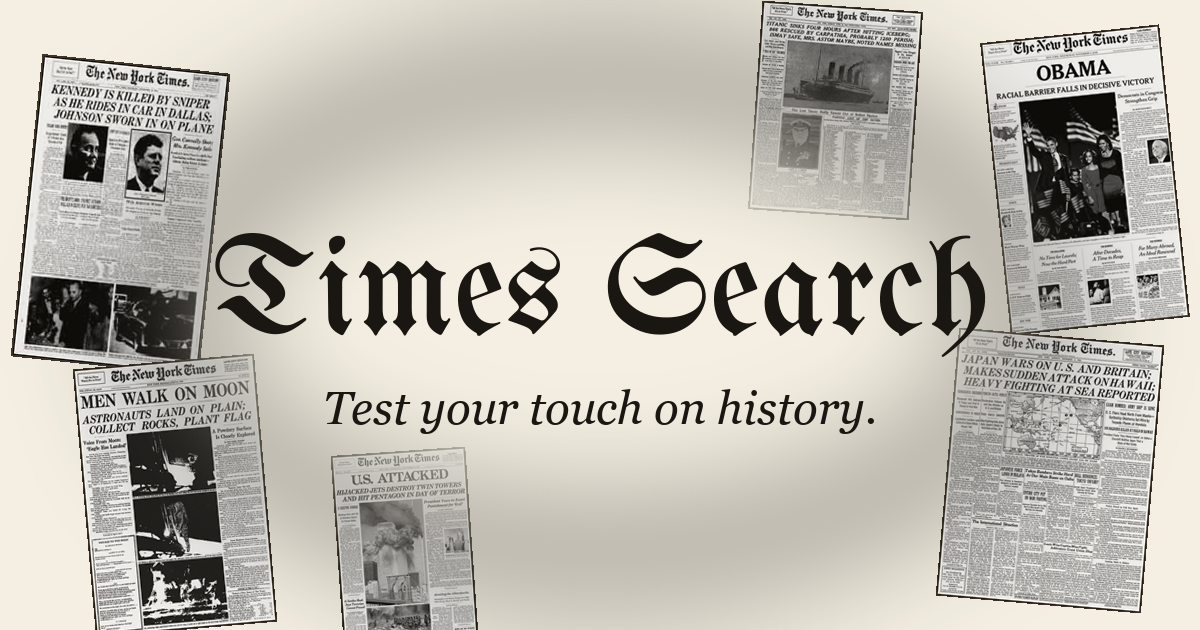
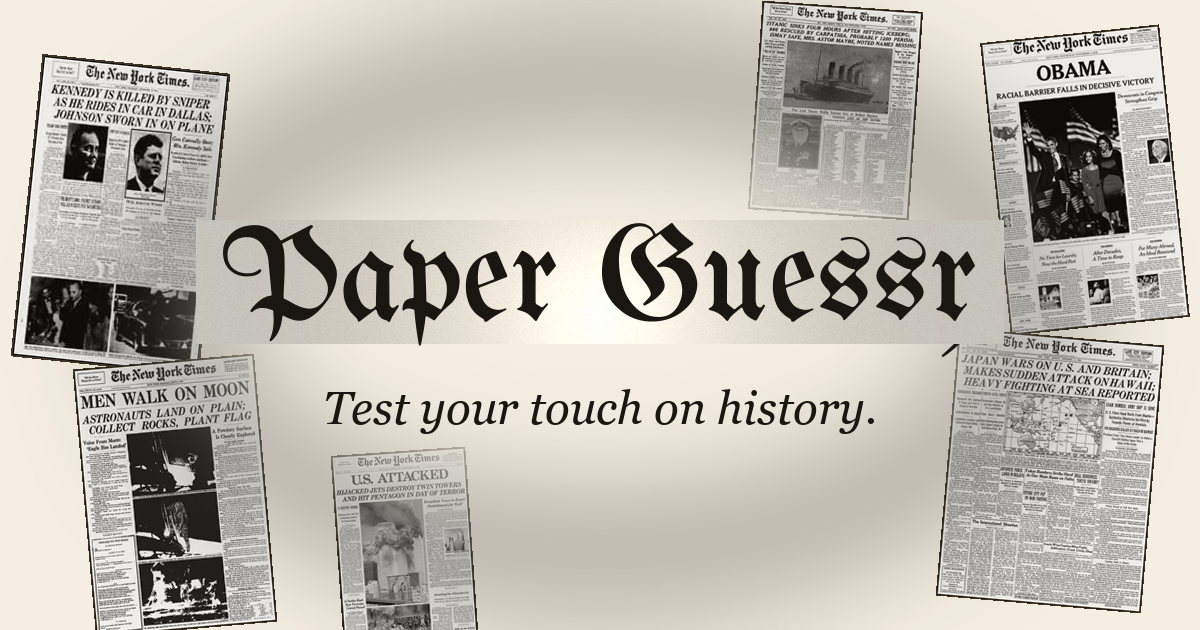
Rebrand Times Search -> Paper Guessr (paperguessr.com)
Same design/look/tagline; only the name and canonical domain change.

- Visible wordmarks: home <h1>, nameplate, poster logo, header brand,
  <title>, OG/Twitter site_name + titles, share-card text + share title,
  ntfy push title.
- Domain: OG/Twitter absolute URLs -> https://paperguessr.com/ (share URL
  itself uses location.origin, so it follows the domain automatically).
- OG image: repainted the wordmark to "Paper Guessr" in place, keeping the
  parchment background, front-page collage and italic tagline.
- localStorage key times-search:v1 -> paper-guessr:v1. NOTE: this resets
  per-device play state (a clean slate for the relaunch); existing players
  see a fresh home rather than their old results.
- Dev/internal: pipeline docstrings, HTTP User-Agents, PRD/SETUP docs,
  daily-Action commit bot name.

favicon.svg (unused; not referenced by index.html) still contains a legacy
"TS" blackletter monogram — left as-is, label updated.

Changed region(s): [[0.1542, 0.3317, 0.8325, 0.573]]

diff --git a/web/index.html b/web/index.html
@@ -3,23 +3,23 @@
 <head>
   <meta charset="UTF-8" />
   <meta name="viewport" content="width=device-width, initial-scale=1.0" />
-  <title>Times Search</title>
+  <title>Paper Guessr</title>
   <meta name="description" content="Test your touch on history. Date four real New York Times front pages and guess the month and year they ran." />
 
   <!-- Link preview (Open Graph + Twitter). Absolute URLs required by scrapers.
-       Update the domain here if/when the custom domain goes live. -->
+       Canonical domain is paperguessr.com (add it in the Vercel project). -->
   <meta property="og:type" content="website" />
-  <meta property="og:site_name" content="Times Search" />
-  <meta property="og:url" content="https://times-search.vercel.app/" />
-  <meta property="og:title" content="Times Search — test your touch on history" />
+  <meta property="og:site_name" content="Paper Guessr" />
+  <meta property="og:url" content="https://paperguessr.com/" />
+  <meta property="og:title" content="Paper Guessr — test your touch on history" />
   <meta property="og:description" content="Date four real New York Times front pages and guess when they ran. A daily history game." />
-  <meta property="og:image" content="https://times-search.vercel.app/og.png" />
+  <meta property="og:image" content="https://paperguessr.com/og.png" />
   <meta property="og:image:width" content="1200" />
   <meta property="og:image:height" content="630" />
   <meta name="twitter:card" content="summary_large_image" />
-  <meta name="twitter:title" content="Times Search — test your touch on history" />
+  <meta name="twitter:title" content="Paper Guessr — test your touch on history" />
   <meta name="twitter:description" content="Date four real New York Times front pages and guess when they ran." />
-  <meta name="twitter:image" content="https://times-search.vercel.app/og.png" />
+  <meta name="twitter:image" content="https://paperguessr.com/og.png" />
   <meta name="theme-color" content="#f4efe2" />
 
   <link rel="icon" type="image/png" sizes="32x32" href="icon-32.png" />
@@ -40,8 +40,8 @@
 <body>
   <header class="masthead">
     <div class="masthead-inner">
-      <a class="brand" href="./" aria-label="Times Search — home">
-        <img src="icon-512.png" alt="Times Search" />
+      <a class="brand" href="./" aria-label="Paper Guessr — home">
+        <img src="icon-512.png" alt="Paper Guessr" />
       </a>
       <div class="scoreboard" id="scoreboard" hidden>
         <span class="round-pill" id="round-pill"></span>

diff --git a/web/app.js b/web/app.js
@@ -1,4 +1,4 @@
-// Times Search — game controller. Plain JS, no framework.
+// Paper Guessr — game controller. Plain JS, no framework.
 (function () {
   "use strict";
 
@@ -26,7 +26,7 @@
   // One game per day, no accounts: persist progress in localStorage keyed by
   // the puzzle date (Wordle-style). Per-device, clearable — fine for MVP.
   // Key by the actually-loaded puzzle date (may differ from DATE if we fell back).
-  const storageKey = () => `times-search:v1:${state.puzzle ? state.puzzle.date : DATE}`;
+  const storageKey = () => `paper-guessr:v1:${state.puzzle ? state.puzzle.date : DATE}`;
   function saveProgress() {
     try {
       localStorage.setItem(storageKey(), JSON.stringify({
@@ -195,11 +195,11 @@
       <section class="screen home poster">
         <div class="fronts" aria-hidden="true">${fronts}</div>
         <div class="poster-topbar">
-          <a class="poster-logo" href="./" aria-label="Times Search"><img src="icon-512.png" alt="" /></a>
+          <a class="poster-logo" href="./" aria-label="Paper Guessr"><img src="icon-512.png" alt="" /></a>
           <button class="how-to-link" id="howto">How to play</button>
         </div>
         <div class="poster-hero">
-          <h1 class="home-title">Times Search</h1>
+          <h1 class="home-title">Paper Guessr</h1>
           <button id="play" class="primary">${cta.label}</button>
         </div>
       </section>`;
@@ -228,7 +228,7 @@
 
     const paper = `
       <div class="paper-masthead standalone">
-        <span class="paper-name">Times Search</span>
+        <span class="paper-name">Paper Guessr</span>
         <div class="paper-dateline">
           <span class="redacted">██████ ██, ████</span>
           <span class="redacted">No. ██,███</span>
@@ -439,7 +439,7 @@
 
   function shareText() {
     const squares = state.results.map((r) => Scoring.shareSquare(r.err)).join("");
-    return `Times Search — ${state.puzzle.date}\n${squares}  ` +
+    return `Paper Guessr — ${state.puzzle.date}\n${squares}  ` +
       `${state.total.toLocaleString()}/${Scoring.maxTotal.toLocaleString()}`;
   }
 
@@ -451,7 +451,7 @@
         // Pass the URL as part of `text` rather than as a separate `url` field:
         // macOS Safari's share sheet (Mail, Messages, Notes) drops `text` and
         // shows only the URL when both fields are given, unlike iOS Safari.
-        await navigator.share({ title: "Times Search", text: fullText });
+        await navigator.share({ title: "Paper Guessr", text: fullText });
         return;
       }
       await navigator.clipboard.writeText(fullText);

diff --git a/api/score.js b/api/score.js
@@ -88,7 +88,7 @@ async function notify(score, count) {
   try {
     await fetch(`https://ntfy.sh/${encodeURIComponent(topic)}`, {
       method: "POST",
-      headers: { Title: "Times Search", Tags: "newspaper" },
+      headers: { Title: "Paper Guessr", Tags: "newspaper" },
       body: `Someone finished today's puzzle — ${score.toLocaleString()}/${MAX}. ` +
             `That makes ${count} completed so far today.`,
     });

diff --git a/web/scoring.js b/web/scoring.js
@@ -1,4 +1,4 @@
-// Times Search — scoring (portable core; no DOM, reusable by a native client).
+// Paper Guessr — scoring (portable core; no DOM, reusable by a native client).
 // Months-off with decaying points. See PRD section 5.
 (function (global) {
   "use strict";

diff --git a/pipeline/__init__.py b/pipeline/__init__.py
@@ -1,1 +1,1 @@
-"""Times Search puzzle-generation pipeline."""
+"""Paper Guessr puzzle-generation pipeline."""

diff --git a/pipeline/groq_client.py b/pipeline/groq_client.py
@@ -32,7 +32,7 @@ def chat(messages, temperature=0.2, max_tokens=200, json_mode=False, retries=4):
             headers={"Authorization": f"Bearer {key}",
                      "Content-Type": "application/json",
                      # Cloudflare blocks the default Python-urllib UA (error 1010).
-                     "User-Agent": "times-search/0.1"},
+                     "User-Agent": "paper-guessr/0.1"},
         )
         try:
             with urllib.request.urlopen(req, timeout=60) as r:

diff --git a/pipeline/wikimedia.py b/pipeline/wikimedia.py
@@ -18,7 +18,7 @@ _last = [0.0]
 
 WIKI = "https://en.wikipedia.org/w/api.php"
 COMMONS = "https://commons.wikimedia.org/w/api.php"
-UA = "times-search/0.1 (non-commercial educational history game)"
+UA = "paper-guessr/0.1 (non-commercial educational history game)"
 CACHE_PATH = os.path.join(config.CACHE_DIR, "wikimedia.json")
 
 

diff --git a/prototype/rank.py b/prototype/rank.py
@@ -1,5 +1,5 @@
 #!/usr/bin/env python3
-"""Times Search — iconicness ranker prototype.
+"""Paper Guessr — iconicness ranker prototype.
 
 Fetches one month of the NYT Archive API and ranks articles to surface the
 ~4 most "iconic" stories of that month, per PRD section 6.2.

diff --git a/PRD.md b/PRD.md
@@ -1,4 +1,4 @@
-# Times Search — Product Requirements Document
+# Paper Guessr — Product Requirements Document
 
 **Status:** Draft v0.1 (working draft — sections marked `OPEN` are unresolved and meant to be decided together)
 **Last updated:** 2026-06-27
@@ -8,9 +8,9 @@
 
 ## 1. Summary
 
-**Times Search** is a daily web game in the spirit of Wordle. Each day, a player is shown three rounds of historical New York Times front-page stories — four major headlines per round, drawn from a single real month somewhere between 1851 and 2019 — and must guess the **month and year** the stories are from. The closer the guess, the higher the score. After three rounds, the player gets a total score, sees how they ranked against everyone who played that day, and can share a spoiler-free result card.
+**Paper Guessr** is a daily web game in the spirit of Wordle. Each day, a player is shown three rounds of historical New York Times front-page stories — four major headlines per round, drawn from a single real month somewhere between 1851 and 2019 — and must guess the **month and year** the stories are from. The closer the guess, the higher the score. After three rounds, the player gets a total score, sees how they ranked against everyone who played that day, and can share a spoiler-free result card.
 
-The hook: the NYT archive is a 170-year record of "what the world was paying attention to." Times Search turns that into a daily test of historical intuition.
+The hook: the NYT archive is a 170-year record of "what the world was paying attention to." Paper Guessr turns that into a daily test of historical intuition.
 
 ### One-liner
 > Guess the month and year four real NYT headlines are from. Three rounds a day.
@@ -255,7 +255,7 @@ The reveal-screen blurb is **LLM-generated via Groq**, model **`llama-3.3-70b-ve
 - **Puzzle store/CDN:** serves the day's puzzle to clients as small JSON — headlines, abstracts, image URLs, links, the blurb, **and the answers**. *(DECIDED: **client-side answers**, Wordle-style. Cheating only fools yourself; the shared "top XX%" stat is already spam-gameable with no accounts. Revisit if the future iOS app adds accounts/competitive leaderboards. See §10.)*
 - **Score-distribution service:** tiny endpoint storing daily anonymous scores + returning percentile/histogram.
 - **Client:** responsive web app implementing the 4 screens.
-- **Play-state persistence — DECIDED & built (no auth):** the client stores today's progress in **`localStorage`**, keyed by the puzzle date (`times-search:v1:<date>`), Wordle-style. On load: **completed → results**, **in-progress → resume**, **fresh → home**; the home CTA is contextual (Play / Resume / See Your Results) and there is **no replay** once the day is done. *Trade-offs (acceptable for MVP):* it is **per-device + per-browser**, resets on clearing storage / private mode, and is **not tamper-proof** (a user can clear it to replay — only affects their own run and the already-gameable anonymous distribution). **Real cross-device identity + integrity is a later concern, arriving with accounts / the native iOS app.**
+- **Play-state persistence — DECIDED & built (no auth):** the client stores today's progress in **`localStorage`**, keyed by the puzzle date (`paper-guessr:v1:<date>`), Wordle-style. On load: **completed → results**, **in-progress → resume**, **fresh → home**; the home CTA is contextual (Play / Resume / See Your Results) and there is **no replay** once the day is done. *Trade-offs (acceptable for MVP):* it is **per-device + per-browser**, resets on clearing storage / private mode, and is **not tamper-proof** (a user can clear it to replay — only affects their own run and the already-gameable anonymous distribution). **Real cross-device identity + integrity is a later concern, arriving with accounts / the native iOS app.**
 
 *(OPEN — concrete stack TBD: static site + serverless functions is likely enough.)*
 

diff --git a/SETUP.md b/SETUP.md
@@ -1,4 +1,4 @@
-# Times Search — backend setup
+# Paper Guessr — backend setup
 
 The game runs fully static on Vercel. Two optional pieces add live stats and
 notifications. The **code is already in the repo**; these are the one-time
@@ -15,7 +15,7 @@ The endpoint is `api/score.js`. It needs a Redis store and (optionally) an
 ntfy topic.
 
 ### a) Provision Upstash Redis (free tier)
-1. Vercel dashboard → your **times-search** project → **Storage** →
+1. Vercel dashboard → your **paper-guessr** project → **Storage** →
    **Create Database** → **Upstash Redis** (Marketplace) → connect it to the
    project.
 2. This automatically adds the env vars **`UPSTASH_REDIS_REST_URL`** and
@@ -24,7 +24,7 @@ ntfy topic.
 ### b) Set up ntfy push notifications (free, no account)
 1. Pick a **private, hard-to-guess topic name** — ntfy topics are public to
    anyone who knows the name, so treat it like a password, e.g.
-   `times-search-bera-7Kq93fX`.
+   `paper-guessr-bera-7Kq93fX`.
 2. Vercel → project → **Settings → Environment Variables** → add
    **`NTFY_TOPIC`** = that topic string.
 3. On your phone, install the **ntfy** app (iOS/Android) → **Subscribe to